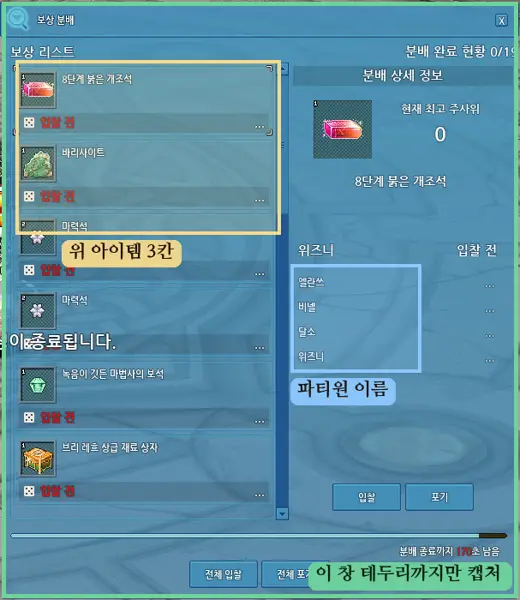
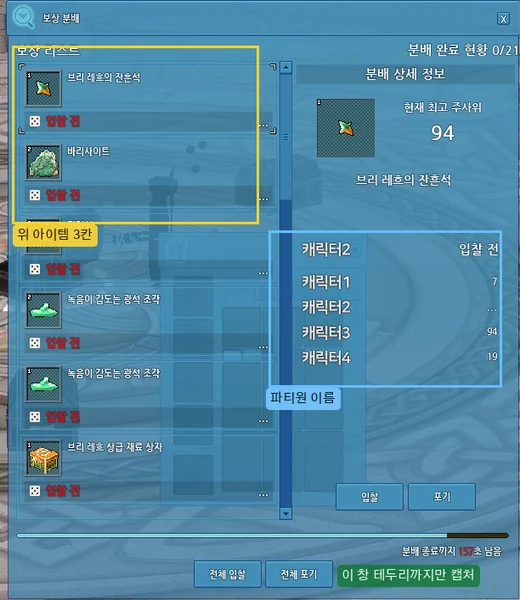
bunbae: v1.8.2 캡처 예시를 새 보상 분배 스크린샷으로 교체

diff --git a/docs/bunbae/index.html b/docs/bunbae/index.html
@@ -4,7 +4,7 @@
 <meta charset="utf-8">
 <meta name="viewport" content="width=device-width,initial-scale=1,viewport-fit=cover">
 <meta name="theme-color" content="#141029">
-<title>마비노기 분배 도우미 v1.8.1</title>
+<title>마비노기 분배 도우미 v1.8.2</title>
 <meta name="description" content="마비노기 보상 분배 창 스크린샷으로 파티원과 아이템을 자동 인식하고 분배자를 기록하는 도우미">
 <link rel="icon" href="/favicon.ico" sizes="any"><link rel="icon" type="image/png" sizes="32x32" href="/favicon-32.png"><link rel="icon" type="image/png" sizes="192x192" href="/favicon-192.png"><link rel="apple-touch-icon" href="/apple-touch-icon.png">
 <link rel="preconnect" href="https://fonts.googleapis.com"><link rel="preconnect" href="https://fonts.gstatic.com" crossorigin><link href="https://fonts.googleapis.com/css2?family=Noto+Sans+KR:wght@400;500;700;800&display=swap" rel="stylesheet">
@@ -68,7 +68,7 @@ table.cp{width:100%;border-collapse:collapse;margin-top:14px;font-size:13.5px}.c
 </style>
 </head><body><div class="wrap">
 <nav class="siteNav" aria-label="도우미 이동"><a id="homeLink" href="../" title="생활도우미 메인으로">홈</a><a href="../alba/">알바</a><a href="../barter/">물교</a><a href="../dungeon/">던전</a><span class="on" aria-current="page">분배</span></nav>
-<div class="head"><h1>분배 도우미<span class="verBadge">v1.8.1</span></h1><p>「보상 분배」 창 스크린샷 한 장으로 파티원·아이템을 정리하고 분배자를 기록해요.</p></div>
+<div class="head"><h1>분배 도우미<span class="verBadge">v1.8.2</span></h1><p>「보상 분배」 창 스크린샷 한 장으로 파티원·아이템을 정리하고 분배자를 기록해요.</p></div>
 <div class="cols"><section class="fee"><div style="font-weight:800;color:var(--gold);font-size:16px">💰 수수료 계산기</div>
 <div class="fg" style="grid-template-columns:1fr">
 <div><label>판매가격</label><input type="text" id="price" inputmode="numeric" value="100,000,000"><div class="seg" style="margin-top:6px"><button class="btn sm ghost" data-add="1000000">+100만</button><button class="btn sm ghost" data-add="10000000">+1000만</button><button class="btn sm ghost" data-add="100000000">+1억</button><button class="btn sm ghost" data-add="0">↺</button><span class="hint" id="kor" style="margin:6px 0 0 4px"></span></div></div>
@@ -91,7 +91,7 @@ table.cp{width:100%;border-collapse:collapse;margin-top:14px;font-size:13.5px}.c
 <h2 id="mTitle">새 분배</h2>
 <div class="step">① 스크린샷 넣기</div>
 <div class="drop" id="drop"><div id="dropMsg">「보상 분배」 창 스크린샷을 <b>Ctrl+V</b>로 붙여넣거나, 끌어다 놓거나, 눌러서 선택하세요.</div><img id="prev" alt="" style="display:none"></div>
-<input type="file" accept="image/*" id="file" hidden><details class="ex" id="exBox"><summary>📷 캡처 예시 보기 · 「보상 분배」 창만 보이게 캡처하면 인식이 더 정확해요</summary><div class="exIn"><img src="capture-example.webp" loading="lazy" width="520" height="600" alt="보상 분배 창 캡처 예시"><ul><li>게임 안 <b>「보상 분배」 창 테두리까지만</b> 캡처해 주세요 (Win+Shift+S 등).</li><li><b style="color:#f7d98b">노란 칸</b>: 왼쪽 보상 리스트 맨 위 3칸 → 제목·「다음 아이템 추가」</li><li><b style="color:#8cc8ff">파란 칸</b>: 오른쪽 파티원 이름 → 이름 칩</li><li>전체 화면 캡처도 창을 자동으로 찾지만, 창만 자르면 더 빠르고 정확해요.</li><li>시스템 메시지가 글자를 가리지 않을 때 찍으면 좋아요.</li></ul></div></details>
+<input type="file" accept="image/*" id="file" hidden><details class="ex" id="exBox"><summary>📷 캡처 예시 보기 · 「보상 분배」 창만 보이게 캡처하면 인식이 더 정확해요</summary><div class="exIn"><img src="capture-example.webp?v=2" loading="lazy" width="520" height="600" alt="보상 분배 창 캡처 예시"><ul><li>게임 안 <b>「보상 분배」 창 테두리까지만</b> 캡처해 주세요 (Win+Shift+S 등).</li><li><b style="color:#f7d98b">노란 칸</b>: 왼쪽 보상 리스트 맨 위 3칸 → 제목·「다음 아이템 추가」</li><li><b style="color:#8cc8ff">파란 칸</b>: 오른쪽 파티원 이름 → 이름 칩</li><li>전체 화면 캡처도 창을 자동으로 찾지만, 창만 자르면 더 빠르고 정확해요.</li><li>시스템 메시지가 글자를 가리지 않을 때 찍으면 좋아요.</li></ul></div></details>
 <div class="prog" id="prog"><i></i></div><div class="status" id="status"></div>
 <div class="step">② 파티원 <span class="mini">이름 클릭 = 분배자 · ✎ 수정 · ✕ 삭제</span></div>
 <div class="chips" id="chips"></div>
@@ -106,5 +106,5 @@ table.cp{width:100%;border-collapse:collapse;margin-top:14px;font-size:13.5px}.c
 <div class="zoom" id="zoom"><div class="zbox"><img alt="" id="zimg"><div class="zt" id="zt"></div><div class="zm" id="zm"></div><div class="foot" style="margin-top:12px"><button class="btn ghost" id="zDel" style="margin-right:auto;border-color:rgba(229,72,93,.6);color:#ffb3bd">삭제</button><button class="btn" id="zShare">🔗 공유</button><button class="btn ghost" id="zShareImg" title="작은 이미지를 넣어서 링크가 길어져요">🖼 이미지 포함 공유</button><button class="btn" id="zEdit">수정</button><button class="btn gold" id="zClose">닫기</button></div></div></div>
 <footer class="siteFoot"><span class="gold" aria-hidden="true"></span>경매장 시세 등은 <a href="https://openapi.nexon.com/" target="_blank" rel="noopener">넥슨 Open API</a>로 가져와요.<br>마비노기 공식 서비스와 관련 없습니다.</footer>
 <script src="https://cdn.jsdelivr.net/npm/tesseract.js@5/dist/tesseract.min.js"></script>
-<script src="names.js?v=1.8.1"></script><script src="ocr.js?v=1.8.1"></script><script src="app.js?v=1.8.1"></script><script src="fee.js?v=1.8.1"></script>
+<script src="names.js?v=1.8.2"></script><script src="ocr.js?v=1.8.2"></script><script src="app.js?v=1.8.2"></script><script src="fee.js?v=1.8.2"></script>
 </body></html>

diff --git a/docs/bunbae/app.js b/docs/bunbae/app.js
@@ -13,7 +13,7 @@ function persist(){try{localStorage.setItem(KEY,JSON.stringify(posts))}catch(e){
 function today(){var d=new Date();return d.getFullYear()+'.'+String(d.getMonth()+1).padStart(2,'0')+'.'+String(d.getDate()).padStart(2,'0')}
 function render(){var L=posts.map(function(p,i){return [p,i]}).filter(function(x){return filt==='all'||(filt==='done')===!!x[0].done});
  $('cnt').textContent='진행중 '+posts.filter(function(p){return !p.done}).length+' · 완료 '+posts.filter(function(p){return p.done}).length;
- $('list').innerHTML=L.map(function(x){var p=x[0],i=x[1];return '<div class="post'+(p.done?' isdone':'')+'"><div class="thumb" data-z="'+i+'"'+(p.thumb?' style="background-image:url('+p.thumb+')"':'')+'>'+(p.thumb?'':'🎁')+'</div><div class="grow" data-z="'+i+'" style="cursor:zoom-in"><div class="t"><span class="tag '+(p.done?'done':'open')+'">'+(p.done?'완료':'진행중')+'</span>'+esc(p.title)+'</div><div class="m">'+(p.members||[]).map(function(n){return '<span class="at">@'+esc(n)+'</span>'}).join('')+'<br>분배자 <span class="dist">'+(p.dist?'👑 '+esc(p.dist):'-')+'</span></div></div><div class="acts">'+(p.done?'<button class="btn sm ghost" data-re="'+i+'">되돌리기</button>':'<button class="btn sm gold" data-fin="'+i+'">완료</button>')+'<button class="btn sm ghost" data-ed="'+i+'">수정</button><button class="btn sm ghost" data-sh="'+i+'">🔗 공유</button><button class="btn sm ghost" data-fee="'+(p.members||[]).length+'">💰 수수료</button></div></div>'}).join('')||'<div class="empty">아직 기록이 없어요. 「＋ 새 분배」를 누르거나 바로 <b>Ctrl+V</b>로 스크린샷을 붙여넣어 보세요.<div style="margin-top:14px"><img src="capture-example.webp" loading="lazy" style="width:240px;border-radius:8px;border:1px solid rgba(247,217,139,.25)" alt="캡처 예시"><div class="hint">캡처 예시 · 「보상 분배」 창만 보이게 캡처하면 인식이 더 정확해요</div></div></div>'}
+ $('list').innerHTML=L.map(function(x){var p=x[0],i=x[1];return '<div class="post'+(p.done?' isdone':'')+'"><div class="thumb" data-z="'+i+'"'+(p.thumb?' style="background-image:url('+p.thumb+')"':'')+'>'+(p.thumb?'':'🎁')+'</div><div class="grow" data-z="'+i+'" style="cursor:zoom-in"><div class="t"><span class="tag '+(p.done?'done':'open')+'">'+(p.done?'완료':'진행중')+'</span>'+esc(p.title)+'</div><div class="m">'+(p.members||[]).map(function(n){return '<span class="at">@'+esc(n)+'</span>'}).join('')+'<br>분배자 <span class="dist">'+(p.dist?'👑 '+esc(p.dist):'-')+'</span></div></div><div class="acts">'+(p.done?'<button class="btn sm ghost" data-re="'+i+'">되돌리기</button>':'<button class="btn sm gold" data-fin="'+i+'">완료</button>')+'<button class="btn sm ghost" data-ed="'+i+'">수정</button><button class="btn sm ghost" data-sh="'+i+'">🔗 공유</button><button class="btn sm ghost" data-fee="'+(p.members||[]).length+'">💰 수수료</button></div></div>'}).join('')||'<div class="empty">아직 기록이 없어요. 「＋ 새 분배」를 누르거나 바로 <b>Ctrl+V</b>로 스크린샷을 붙여넣어 보세요.<div style="margin-top:14px"><img src="capture-example.webp?v=2" loading="lazy" style="width:240px;border-radius:8px;border:1px solid rgba(247,217,139,.25)" alt="캡처 예시"><div class="hint">캡처 예시 · 「보상 분배」 창만 보이게 캡처하면 인식이 더 정확해요</div></div></div>'}
 function chips(){$('chips').innerHTML=names.map(function(n,i){return '<span class="chip'+(n===dist?' sel':'')+'" data-pick="'+i+'">'+(n===dist?'👑 ':'')+esc(n)+'<span class="x" data-edn="'+i+'" title="수정">✎</span><span class="x" data-rm="'+i+'" title="삭제">✕</span></span>'}).join('')||'<span class="hint">스크린샷을 넣으면 이름이 여기 나와요. 직접 추가도 돼요.</span>';
  $('dhint').innerHTML=dist?'분배자: <b style="color:var(--gold)">👑 '+esc(dist)+'</b>':'위 이름 중 한 명을 눌러 주세요.'}
 function status(t,c){var s=$('status');s.textContent=t;s.className='status'+(c?' '+c:'')}
